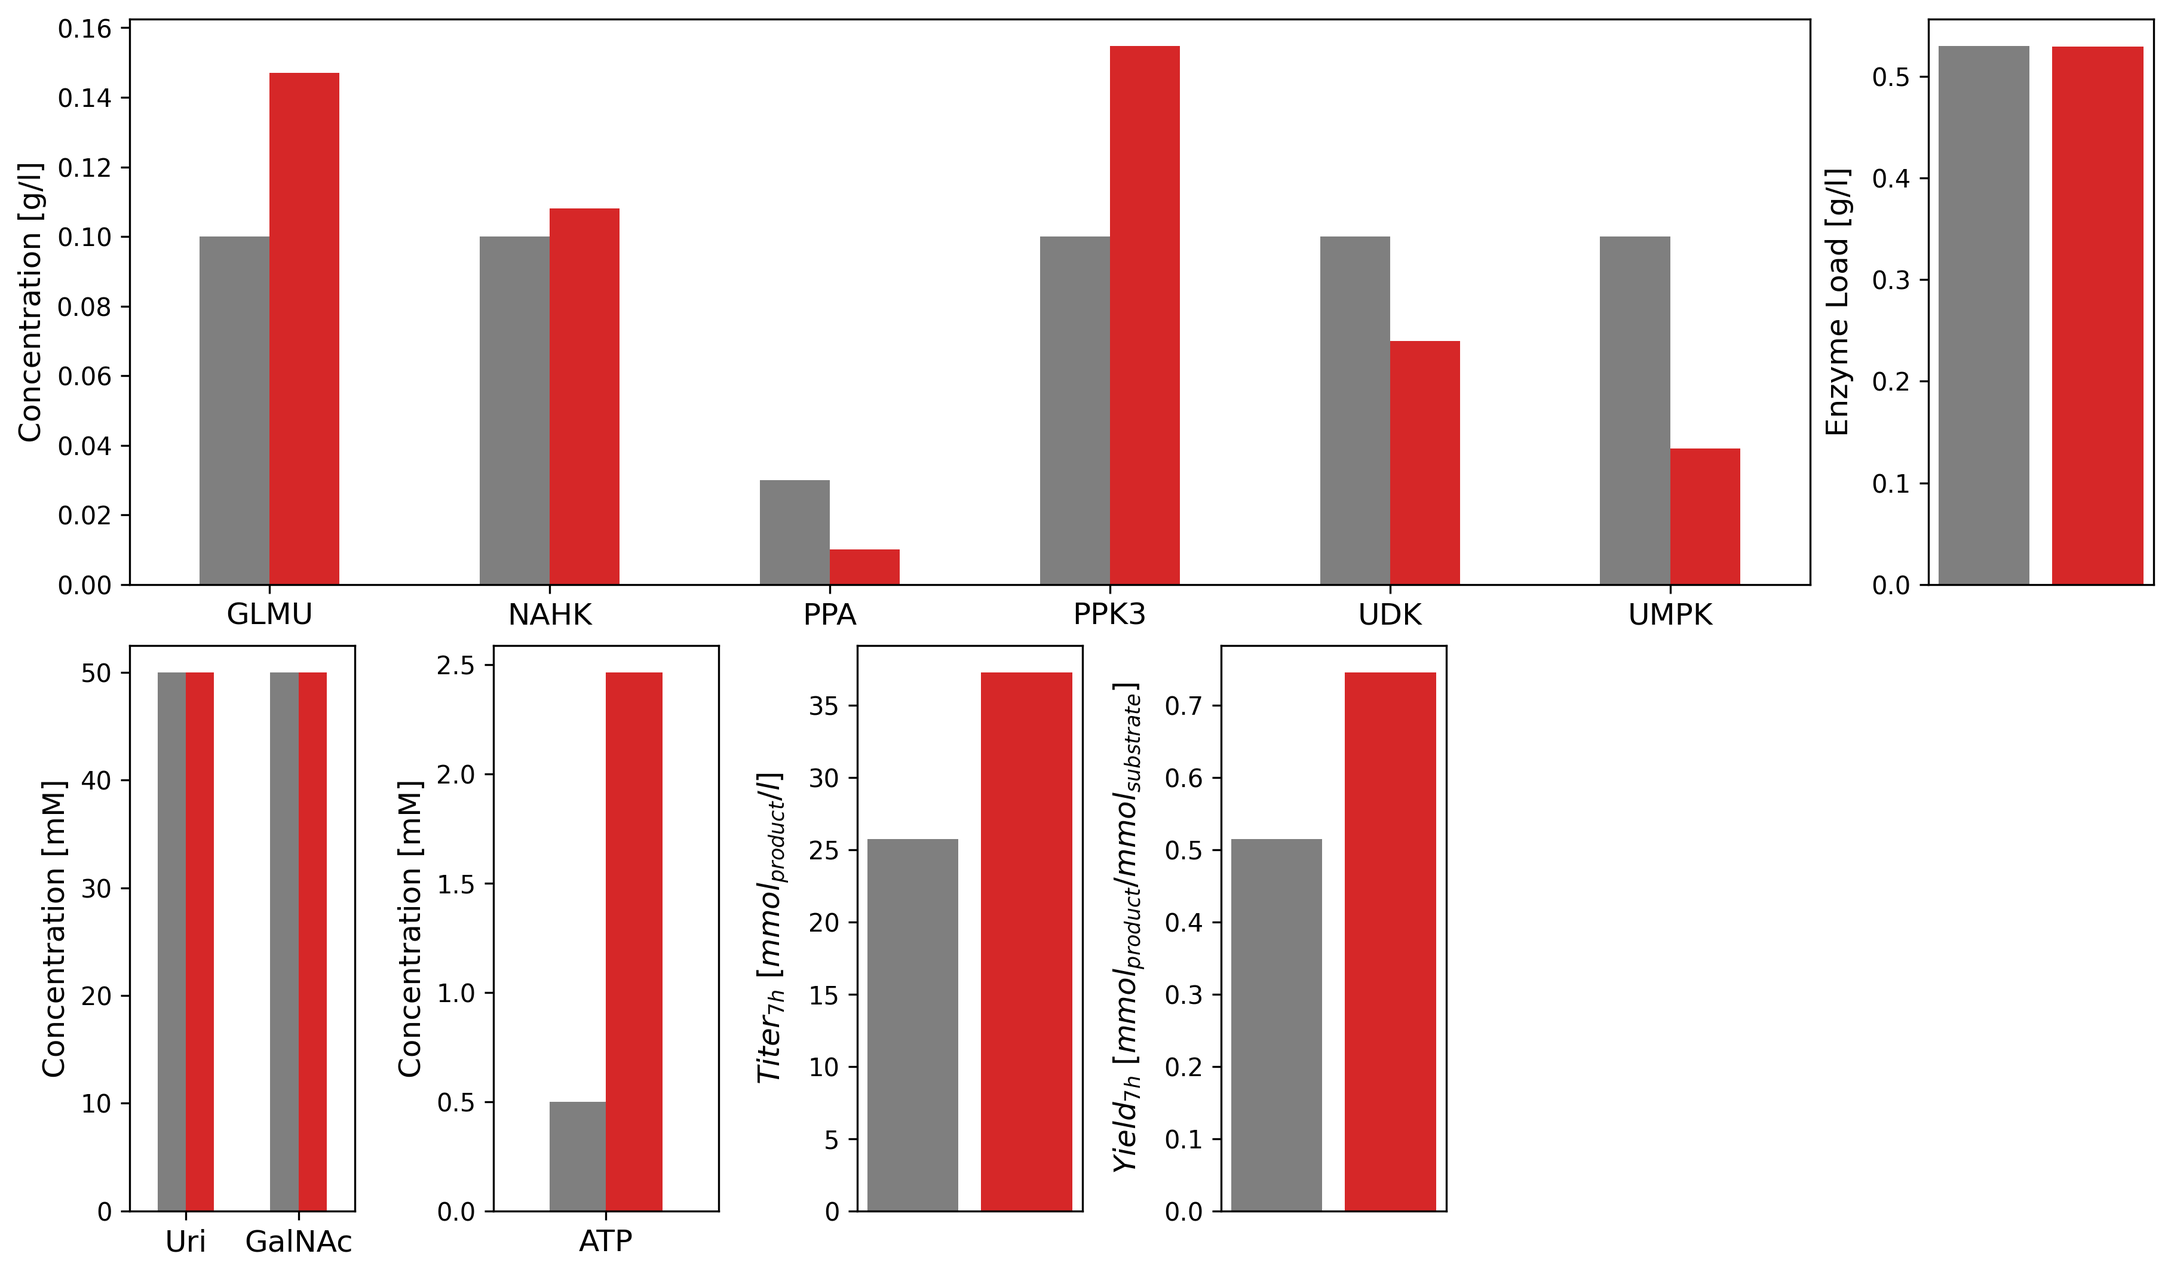
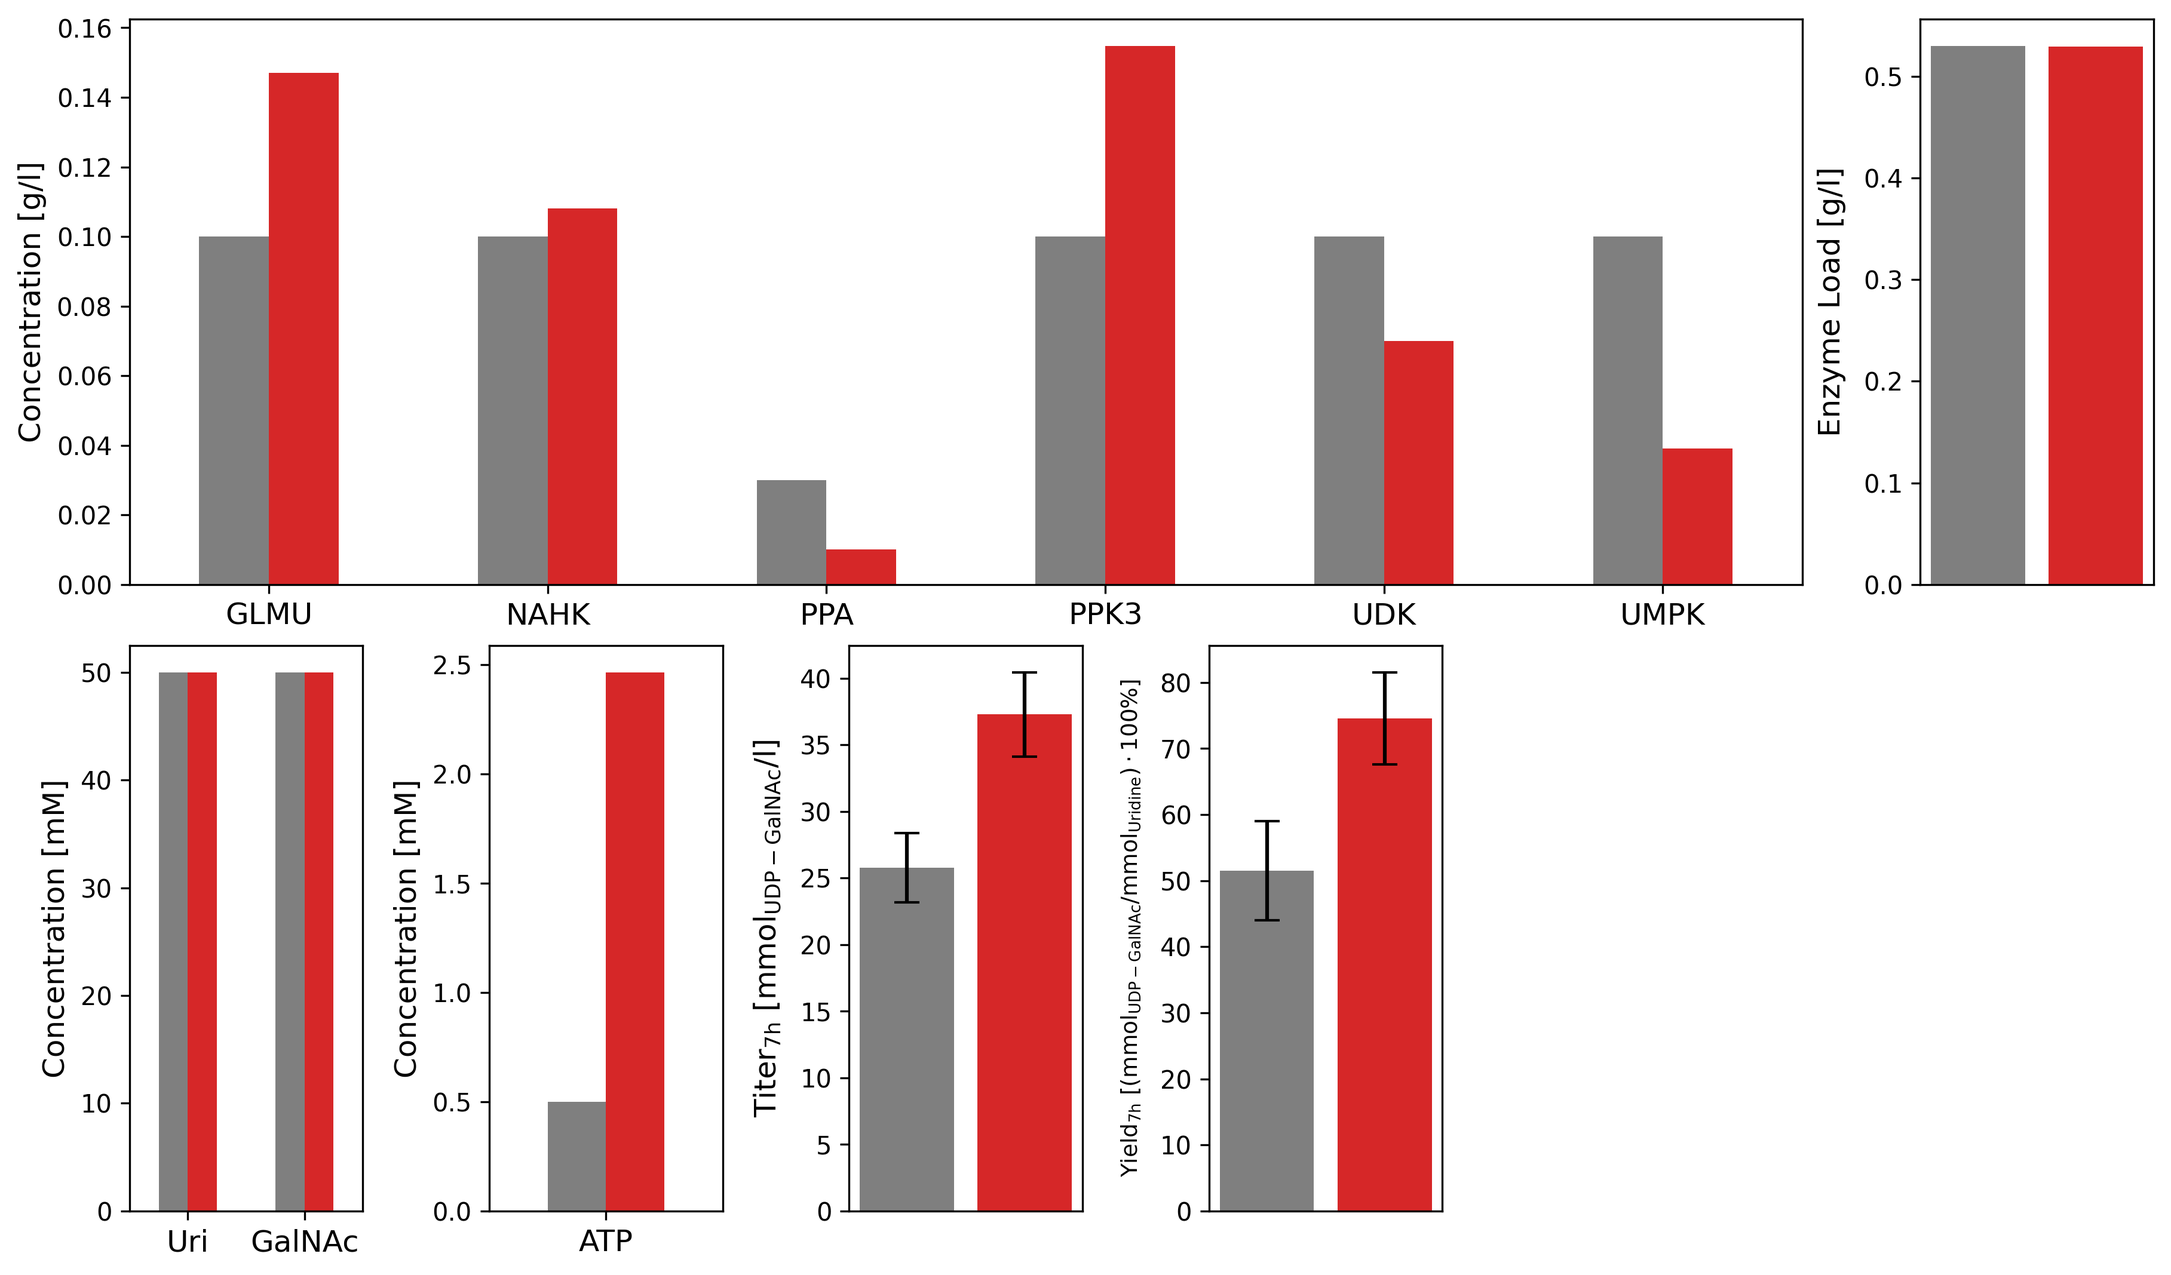
Update visualization of process optimization results

diff --git a/process_optimization/visualize_selected_predictions.py b/process_optimization/visualize_selected_predictions.py
@@ -250,7 +250,10 @@ def visualize_predTC_withValData(model_path, fits_data_path, best_opt_result_pat
                                 capsize=3,
                                 label='Validation')
             # set subplot title to species name
-            ax_obj.set_title(species_name, fontsize=font_size, loc='center')
+            if species_name == 'UDP_GalNAc':
+                ax_obj.set_title('UDP-GalNAc', fontsize=font_size, loc='center')
+            else:
+                ax_obj.set_title(species_name, fontsize=font_size, loc='center')
             # set x-axis ticks
             ax_obj.set_xticks([0, 4, 8, 12, 16, 20, 24])
             ax_obj.tick_params(axis='x')
@@ -278,15 +281,19 @@ def visualize_predTC_withValData(model_path, fits_data_path, best_opt_result_pat
     # save the plot
     plt.savefig(f'{result_file_path}_plot.png', bbox_inches="tight", dpi=300)
 
-def plot_base_opt_process_comparison(baseline_exp_data_path, best_opt_result_path, exp_val_data_path, titer_and_yield_timepoint, result_file_path):
+def plot_base_opt_process_comparison(baseline_exp_data_path, baseline_exp_biol_repl_data_path, best_opt_result_path, val_exp_data_path, val_exp_biol_repl_data_path, titer_and_yield_timepoint, result_file_path):
     """Plot initial enzyme and substrate concentrations as well as various relevant performance indicators (enzyme load, product titer, yield) of the unoptimized baseline experiment and the validation experiment which was performed to test the best scoring batch optimization result.
 
-    :param baseline_exp_data_path: path to the baseline experiment data
+    :param baseline_exp_data_path: path to the baseline experiment data (average values across three biological replicates)
     :type baseline_exp_data_path: string
+    :type baseline_exp_biol_repl_data_path: path to the baseline experiment data (selected data points of all three biol. replicates)
+    :param baseline_exp_biol_repl_data_path: string
     :param best_opt_result_path: path to the best scoring optimization result
     :type best_opt_result_path: string
-    :param exp_val_data_path: path to the validation experiment data
-    :type exp_val_data_path: string
+    :param val_exp_data_path: path to the validation experiment data (average values across three biological replicates)
+    :type val_exp_data_path: string
+    :type val_exp_biol_repl_data_path: path to the validation experiment data (selected data points of all three biol. replicates)
+    :param val_exp_biol_repl_data_path: string
     :param titer_and_yield_timepoint: the time point where titers and yields are calculated
     :type titer_and_yield_timepoint: integer
     :param result_file_path: path of the output file
@@ -294,24 +301,21 @@ def plot_base_opt_process_comparison(baseline_exp_data_path, best_opt_result_pat
     """
 
     # LOAD DATA
-
     # load selected optimization result and get start (baseline) and predicted (optimized) initial concentrations
     with open(best_opt_result_path, 'rb') as pickle_file:
         opt_result = pickle.load(pickle_file)
     opt_result_start_init_conc = opt_result['opt_result'][0]['start']
     opt_result_pred_init_conc = opt_result['opt_result'][0]['sol']
 
-    # load data of baseline and validation experiments
+    # load data of baseline and validation experiments to get the measured titers (data points are averages across three biological replicates)
     baseline_data_df_raw = pd.read_csv(baseline_exp_data_path, sep='\t')
-    val_data_df_raw = pd.read_csv(exp_val_data_path, sep='\t')
+    val_data_df_raw = pd.read_csv(val_exp_data_path, sep='\t')
+
+    # load data of the baseline and validation experiment biological replicates (selected data points)
+    baseline_data_biol_repl_df = pd.read_csv(baseline_exp_biol_repl_data_path, sep='\t')
+    val_data_biol_repl_df = pd.read_csv(val_exp_biol_repl_data_path, sep='\t')
 
     # PREPARE DATA
-
-#    Uri_MW = 244.20         # [g/mol]
-#    GalNAc_MW = 221.21      # [g/mol]
-#    UDP_GalNAc_MW = 607.36  # [g/mol]
-#    reaction_vol = 0.5      # [ml]
-
     # 1) get enzyme distributions (convert concentrations from mM to g/l)
     baseline_E_distr = dict(opt_result_start_init_conc.loc[[name for name in opt_result_start_init_conc.index if
                                                             name.startswith('E_')]])
@@ -363,13 +367,41 @@ def plot_base_opt_process_comparison(baseline_exp_data_path, best_opt_result_pat
                                       index=baseline_S_init_conc.keys(),
                                       columns=['substrate', 'baseline', 'optimized'])
 
-    # 4) get (absolute) product titers at the specified process time point [mmol_product/l]
+    # 4) get (absolute) product titers at the specified process time point [mmol_UDP_GalNAc / l]
     baseline_prod_titer = baseline_data_df_raw.loc[baseline_data_df_raw['Time'] == titer_and_yield_timepoint, '[UDP_GalNAc]'].iloc[0]
     opt_prod_titer = val_data_df_raw.loc[val_data_df_raw['Time'] == titer_and_yield_timepoint, '[UDP_GalNAc]'].iloc[0]
 
-    # 5) calculate (absolute) product yields [mmol product/l / mmol substrate/l = mmol product / mmol substrate]
-    baseline_yield = (2*(baseline_prod_titer)) / (baseline_S_init_conc['Uri'] + baseline_S_init_conc['GalNAc'])
-    opt_yield = (2*(opt_prod_titer)) / (opt_S_init_conc['Uri'] + opt_S_init_conc['GalNAc'])
+    # 5) calculate (relative) product titers [(mmol_UDP_GalNAc / l) / (g_Enzyme / l) = mmol_UDP_GalNAc/g_Enzyme]
+    baseline_prod_titer_rel = baseline_prod_titer / baseline_E_tot['gram_enzyme_load']
+    opt_prod_titer_rel = opt_prod_titer / opt_E_tot['gram_enzyme_load']
+
+    # 6) calculate (absolute) product yields [((mmol UDP_GalNAc / l) / (mmol Uridine / l)) * 100% = (mmol UDP_GalNAc / mmol Uridine) * 100%]
+    baseline_prod_yield = ( baseline_prod_titer / baseline_S_init_conc['Uri'] ) * 100
+    opt_prod_yield = ( opt_prod_titer / opt_S_init_conc['Uri'] ) * 100
+
+    # 7) calculate (relative) product yields [((mmol_UDP_GalNAc) / (mmol_Uridine) * 100%) / (g_Enzyme / l) = (mmol_UDP_GalNAc / (mmol_Uridine * (g_Enzyme / l))) * 100%]
+    baseline_prod_yield_rel = baseline_prod_yield / baseline_E_tot['gram_enzyme_load']
+    opt_prod_yield_rel = opt_prod_yield / opt_E_tot['gram_enzyme_load']
+
+    # 8) calculate standard deviations of all titers and yields (absolute and relative) across the three biological replicates
+    baseline_prod_titer_std = np.std(np.array([baseline_data_biol_repl_df.loc[:, f'[UDP_GalNAc]_{titer_and_yield_timepoint}']]))
+    opt_prod_titer_std = np.std(np.array([val_data_biol_repl_df.loc[:, f'[UDP_GalNAc]_{titer_and_yield_timepoint}']]))
+    baseline_prod_titer_rel_std = np.std(np.array([val/baseline_E_tot['gram_enzyme_load'] for val 
+                                                   in baseline_data_biol_repl_df.loc[:, f'[UDP_GalNAc]_{titer_and_yield_timepoint}']]))
+    opt_prod_titer_rel_std = np.std(np.array([val/opt_E_tot['gram_enzyme_load'] for val 
+                                              in val_data_biol_repl_df.loc[:, f'[UDP_GalNAc]_{titer_and_yield_timepoint}']]))
+    baseline_prod_yield_std = np.std(np.array([(val_prod/val_subs)*100 for val_prod, val_subs 
+                                                in zip(baseline_data_biol_repl_df.loc[:, f'[UDP_GalNAc]_{titer_and_yield_timepoint}'], 
+                                                       baseline_data_biol_repl_df.loc[:, '[Uri]_0'])]))
+    opt_prod_yield_std = np.std(np.array([(val_prod/val_subs)*100 for val_prod, val_subs 
+                                           in zip(val_data_biol_repl_df.loc[:, f'[UDP_GalNAc]_{titer_and_yield_timepoint}'], 
+                                                  val_data_biol_repl_df.loc[:, '[Uri]_0'])]))
+    baseline_prod_yield_rel_std = np.std(np.array([[((val_prod/val_subs)*100)/baseline_E_tot['gram_enzyme_load'] for val_prod, val_subs 
+                                                      in zip(baseline_data_biol_repl_df.loc[:, f'[UDP_GalNAc]_{titer_and_yield_timepoint}'], 
+                                                             baseline_data_biol_repl_df.loc[:, '[Uri]_0'])]]))
+    opt_prod_yield_rel_std = np.std(np.array([((val_prod/val_subs)*100)/opt_E_tot['gram_enzyme_load'] for val_prod, val_subs 
+                                                 in zip(val_data_biol_repl_df.loc[:, f'[UDP_GalNAc]_{titer_and_yield_timepoint}'], 
+                                                        val_data_biol_repl_df.loc[:, '[Uri]_0'])]))
 
     # VISUALIZE DATA
     fig, axes = plt.subplot_mosaic([['E_distr', 'E_distr', 'E_distr', 'E_distr', 'E_distr', 'E_tot',],
@@ -410,36 +442,42 @@ def plot_base_opt_process_comparison(baseline_exp_data_path, best_opt_result_pat
 
     # plot absolute values of product titers [mmol product/l] and product yields [mmol product/mmol_substrate]
     axes['titer_abs'].bar(['baseline_titer_abs', 'optimized_titer_abs'],
-                [baseline_prod_titer, opt_prod_titer],
-                color=colors)
+                          [baseline_prod_titer, opt_prod_titer],
+                          color=colors,
+                          yerr=[baseline_prod_titer_std, opt_prod_titer_std],
+                          capsize=5)
     axes['titer_abs'].set_xticklabels([])
     axes['titer_abs'].set_xticks([])
-    axes['titer_abs'].set_ylabel('$Titer_{' + str(titer_and_yield_timepoint) + 'h}$ [$mmol_{product}/l$]', labelpad=7, fontsize=font_size)
-    axes['yield_abs'].bar(['baseline_yield_abs', 'optimized_yield_abs'],
-                [baseline_yield, opt_yield],
-                color=colors)
+    axes['titer_abs'].set_ylabel('$Titer_{' + str(titer_and_yield_timepoint) + 'h}$ [$mmol_{UDP-GalNAc}/l$]', labelpad=7, fontsize=font_size)
+    axes['yield_abs'].bar(['baseline_prod_yield_abs', 'optimized_yield_abs'],
+                          [baseline_prod_yield, opt_prod_yield],
+                          color=colors,
+                          yerr=[baseline_prod_yield_std, opt_prod_yield_std],
+                          capsize=5)
     axes['yield_abs'].set_xticklabels([])
     axes['yield_abs'].set_xticks([])
-    axes['yield_abs'].set_ylabel('$Yield_{' + str(titer_and_yield_timepoint) + 'h}$ [$mmol_{product}/mmol_{substrate}$]', labelpad=7, fontsize=font_size)
+    axes['yield_abs'].set_ylabel('$Yield_{' + str(titer_and_yield_timepoint) + 'h}$ [$(mmol_{UDP-GalNAc}/mmol_{Uridine}) \cdot 100\%$]', labelpad=7, fontsize=font_size-3)
 
     # only plot relative values of product titers and product yields if it makes sense, i.e., if the enzyme load is different between the baseline and the optimized scenario (which in turn will lead to a difference between absolute and relative titers/yields)
     if np.round(baseline_E_tot['gram_enzyme_load'], 2) != np.round(opt_E_tot['gram_enzyme_load'], 2):
         # relative titer: (absolute titer [mmol product/l] ) / enzyme load [g enzyme/l] => (mmol product)/(g enzyme)
         axes['titer_rel'].bar(['baseline_titer_rel', 'optimized_titer_rel'],
-                    [baseline_prod_titer / baseline_E_tot['gram_enzyme_load'],
-                     opt_prod_titer / opt_E_tot['gram_enzyme_load']],
-                    color=colors)
+                              [baseline_prod_titer_rel, opt_prod_titer_rel],
+                              color=colors,
+                              yerr=[baseline_prod_titer_rel_std, opt_prod_titer_rel_std],
+                              capsize=5)
         axes['titer_rel'].set_xticklabels([])
         axes['titer_rel'].set_xticks([])
-        axes['titer_rel'].set_ylabel('$rel. Titer_{' + str(titer_and_yield_timepoint) + 'h}$ [$mmol_{product}/g_{enzyme}$]', labelpad=7, fontsize=font_size)
+        axes['titer_rel'].set_ylabel('$Rel. Titer_{' + str(titer_and_yield_timepoint) + 'h}$ [$mmol_{UDP-GalNAc}/g_{enzyme}$]', labelpad=7, fontsize=font_size)
         # relative yield = absolute yield [mmol product/ mmol substrate] / enzyme load [g enzyme/l] => (mmol product)/(mmol substrat * (g enzyme/l))
-        axes['yield_rel'].bar(['baseline_yield_rel', 'optimized_yield_rel'],
-                    [baseline_yield / baseline_E_tot['gram_enzyme_load'], 
-                    opt_yield / opt_E_tot['gram_enzyme_load']],
-                    color=colors)
+        axes['yield_rel'].bar(['baseline_prod_yield_rel', 'optimized_yield_rel'],
+                              [baseline_prod_yield_rel, opt_prod_yield_rel],
+                              color=colors,
+                              yerr=[baseline_prod_yield_rel_std, opt_prod_yield_rel_std],
+                              capsize=5)
         axes['yield_rel'].set_xticklabels([])
         axes['yield_rel'].set_xticks([])
-        axes['yield_rel'].set_ylabel('$rel. Yield_{' + str(titer_and_yield_timepoint) + 'h}$ [$mmol_{product}/(mmol_{substrate} \cdot (g_{enzyme}/l))$]', labelpad=7, fontsize=font_size-2)
+        axes['yield_rel'].set_ylabel('$Rel. Yield_{' + str(titer_and_yield_timepoint) + 'h}$ [$mmol_{UDP-GalNAc}/(mmol_{Uridine} \cdot (g_{enzyme}/l)) \cdot 100\%$]', labelpad=7, fontsize=font_size-3)
     else:
         axes['titer_rel'].axis("off")
         axes['yield_rel'].axis("off")
@@ -457,10 +495,10 @@ def plot_base_opt_process_comparison(baseline_exp_data_path, best_opt_result_pat
                                 'optimized': opt_prod_titer},
                  'titers_rel': {'baseline': baseline_prod_titer / baseline_E_tot['gram_enzyme_load'],
                                 'optimized': opt_prod_titer / opt_E_tot['gram_enzyme_load']},
-                 'yields_abs': {'baseline': baseline_yield,
-                                'optimized': opt_yield},
-                 'yields_rel': {'baseline': baseline_yield / baseline_E_tot['gram_enzyme_load'],
-                                'optimized': opt_yield / opt_E_tot['gram_enzyme_load']}}
+                 'yields_abs': {'baseline': baseline_prod_yield,
+                                'optimized': opt_prod_yield},
+                 'yields_rel': {'baseline': baseline_prod_yield / baseline_E_tot['gram_enzyme_load'],
+                                'optimized': opt_prod_yield / opt_E_tot['gram_enzyme_load']}}
     list_of_strings = [f'{key} : {data_dict[key]}' for key in data_dict]
     with open(f'{result_file_path}_data.txt', 'w') as file:
         [file.write(f'{string}\n') for string in list_of_strings]
@@ -472,6 +510,11 @@ def plot_base_opt_process_comparison(baseline_exp_data_path, best_opt_result_pat
 cwd = Path.cwd()
 exp_val_data_dir = cwd / 'exp_val_data'
 baseline_exp_data_path = f'{str(exp_val_data_dir)}\\UDP-GalNAc36_50_with_initConcColumns.txt'
+baseline_exp_biol_repl_data_path = f'{str(exp_val_data_dir)}\\UDP-GalNAc36_50_biol_repl_data.txt'
+
+# global matplotlib command to enable sbscripts in axis labels that are not automatically italicized
+params = {'mathtext.default': 'regular' }
+plt.rcParams.update(params)
 
 # --------------------------------------------------------------------------------------------------------#
 
@@ -486,11 +529,12 @@ fits_data_path = f'{opt_var_a_path}\\rep2_MV5\\sampling_output_Particle_Swarm50r
 best_opt_result_path = f'{opt_var_a_path}\\rep2_MV5\\ImpExtSearch_v23b_rep2_MV5_PartSwarm50x_OP01withS_7h_CrossVal_Scoring_Result_O11.pkl'
 exp_val_data_path = f'{str(exp_val_data_dir)}\\UDP-GalNAc40_TO7h_with_initConcColumns.txt'
 exp_val_data_SD_path = f'{str(exp_val_data_dir)}\\UDP-GalNAc40_TO7h_SD.txt'
+exp_val_biol_repl_data_path = f'{str(exp_val_data_dir)}\\UDP-GalNAc40_TO7h_biol_repl_data.txt'
 tc_plot_result_file_path = f'{opt_var_a_path}\\rep2_MV5\\ImpExtSearch_v23b_rep2_MV5_OP01withS_7h_O11'
 visualize_predTC_withValData(model_path, fits_data_path, best_opt_result_path, exp_val_data_path, exp_val_data_SD_path, tc_plot_result_file_path)
 titer_and_yield_timepoint = 7  # [h]
 perf_plot_result_file_path = f'{opt_var_a_path}\\rep2_MV5\\ImpExtSearch_v23b_rep2_MV5_OP01withS_7h_O11_base_opt_compare'
-plot_base_opt_process_comparison(baseline_exp_data_path, best_opt_result_path, exp_val_data_path, titer_and_yield_timepoint, perf_plot_result_file_path)
+plot_base_opt_process_comparison(baseline_exp_data_path, baseline_exp_biol_repl_data_path, best_opt_result_path, exp_val_data_path, exp_val_biol_repl_data_path, titer_and_yield_timepoint, perf_plot_result_file_path)
 
 # --------------------------------------------------------------------------------------------------------#
 
@@ -506,8 +550,9 @@ fits_data_path = f'{opt_var_b_path}\\rep2_MV5\\sampling_output_Particle_Swarm50r
 best_opt_result_path = f'{opt_var_b_path}\\rep2_MV5\\ImpExtSearch_v23b_rep2_MV5_PartSwarm50x_OP05withS_CrossVal_Scoring_Result_O19.pkl'
 exp_val_data_path = f'{str(exp_val_data_dir)}\\UDP-GalNAc40_LO_with_initConcColumns.txt'
 exp_val_data_SD_path = f'{str(exp_val_data_dir)}\\UDP-GalNAc40_LO_SD.txt'
+exp_val_biol_repl_data_path = f'{str(exp_val_data_dir)}\\UDP-GalNAc40_LO_biol_repl_data.txt'
 result_file_name = f'{opt_var_b_path}\\rep2_MV5\\ImpExtSearch_v23b_rep2_MV5_OP05withS_O19'
 visualize_predTC_withValData(model_path, fits_data_path, best_opt_result_path, exp_val_data_path, exp_val_data_SD_path, result_file_name)
 titer_and_yield_timepoint = 24  # [h]
 perf_plot_result_file_path = f'{opt_var_b_path}\\rep2_MV5\\ImpExtSearch_v23b_rep2_MV5_OP05withS_O19_base_opt_compare'
-plot_base_opt_process_comparison(baseline_exp_data_path, best_opt_result_path, exp_val_data_path, titer_and_yield_timepoint, perf_plot_result_file_path)
+plot_base_opt_process_comparison(baseline_exp_data_path, baseline_exp_biol_repl_data_path, best_opt_result_path, exp_val_data_path, exp_val_biol_repl_data_path, titer_and_yield_timepoint, perf_plot_result_file_path)
